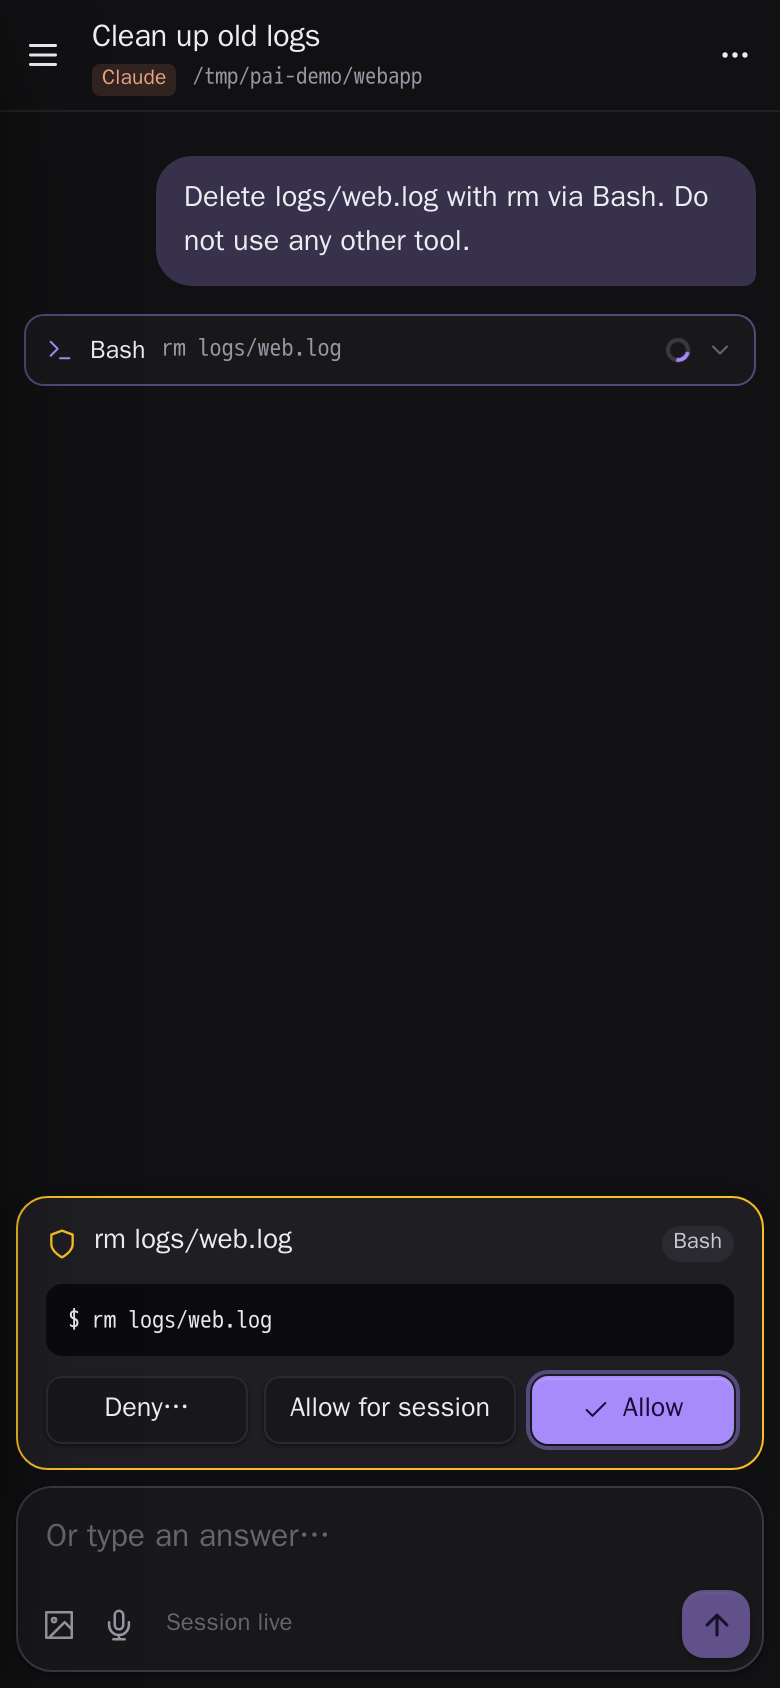
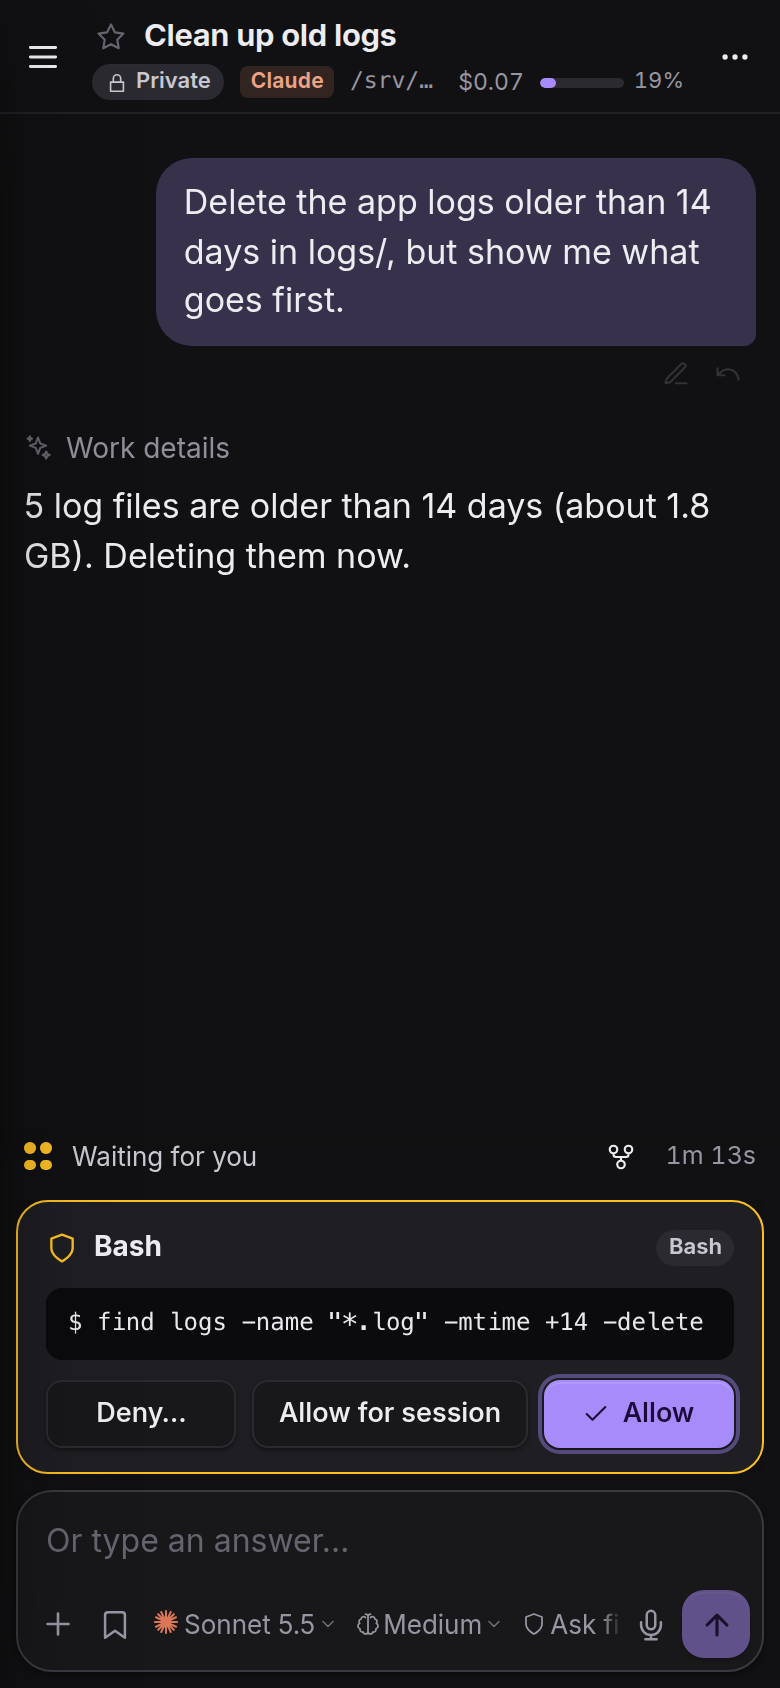
README: new screenshots of the current app (shorter sidebar menu with the thread list, new home, tabs, approval card); the phone pair is now a finished thread + an approval

diff --git a/README.md b/README.md
@@ -16,22 +16,22 @@ Personal app assistance: [Briefing, workflows, memory, sources and document uplo
 <table>
   <tr>
     <td width="50%"><img src="docs/screenshots/permission.png" alt="A permission request: Allow, Allow for session, Deny"></td>
-    <td width="50%"><img src="docs/screenshots/home.png" alt="New thread: Claude Code or Codex, model, effort, permission mode, folder, recipes"></td>
+    <td width="50%"><img src="docs/screenshots/home.png" alt="New thread: model (Claude Code or Codex), effort, permission mode, folder; a thread waiting for you on top"></td>
   </tr>
   <tr>
     <td align="center"><sub>The agent asks before it runs something; answer from wherever you are.</sub></td>
-    <td align="center"><sub>Start a thread with either CLI, or tap a recipe.</sub></td>
+    <td align="center"><sub>Start a thread with either CLI; type / for a recipe.</sub></td>
   </tr>
   <tr>
     <td width="50%"><img src="docs/screenshots/schedules.png" alt="Schedules with their last verdict"></td>
     <td width="50%" align="center">
-      <img src="docs/screenshots/phone-image.png" width="190" alt="A screenshot sent to Codex from a phone">&nbsp;
+      <img src="docs/screenshots/phone-thread.png" width="190" alt="A finished thread on a phone: the agent explains the fix">&nbsp;
       <img src="docs/screenshots/phone-permission-dark.png" width="190" alt="A permission request on a phone, dark">
     </td>
   </tr>
   <tr>
     <td align="center"><sub>Scheduled checks answer OK or ATTENTION; you hear only about the second.</sub></td>
-    <td align="center"><sub>On the phone: send a screenshot, approve a command.</sub></td>
+    <td align="center"><sub>On the phone: read what it did, approve a command.</sub></td>
   </tr>
 </table>
 
